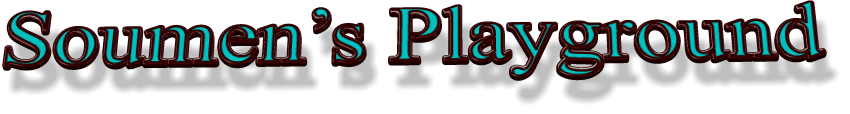
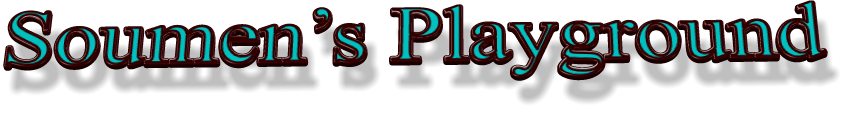
wryuwrujjsfjsf

diff --git a/e22/viii_eng/1stSum-viii-eng-22/1.htm b/e22/viii_eng/1stSum-viii-eng-22/1.htm
@@ -27,8 +27,8 @@
  <script>var xr_xr=document.getElementById("xr_xr")</script>
 <div id="xr_td" class="xr_td">
 <div class="xr_ap xr_xri_" style="width: 550px; height: 1000px;">
- <img class="xr_rn_ xr_ap" src="index_htm_files/19.jpg" alt="" title="" style="left:28px;top:755px;width:245px;height:143px;"/>
- <img class="xr_rn_ xr_ap" src="index_htm_files/17.jpg" alt="" title="" style="left:288px;top:756px;width:224px;height:149px;"/>
+ <img class="xr_rn_ xr_ap" src="index_htm_files/19.jpg" alt="" title="" style="left:25px;top:775px;width:245px;height:143px;"/>
+ <img class="xr_rn_ xr_ap" src="index_htm_files/17.jpg" alt="" title="" style="left:288px;top:769px;width:224px;height:149px;"/>
  <div class="xr_txt Normal_text xr_s0" style="position: absolute; left:-117px; top:28px; width:421px; height:10px;">
   <span class="xr_tl Normal_text xr_s0" style="left: 188.98px; top: -21.39px;">&nbsp;&nbsp;&nbsp;&nbsp;&nbsp;&nbsp;&nbsp;&nbsp;&nbsp; A Sample Question Pattern </span>
   <span class="xr_tl Normal_text xr_s0" style="left: 264.57px; top: 10.51px;">&nbsp;&nbsp;&nbsp; and Marks Division </span>
@@ -36,38 +36,40 @@
   <span class="xr_tl Normal_text xr_s0" style="left: 188.97px; top: 42.4px;">of the First Summative Evaluation 2022</span>
   <span class="xr_tl Normal_text xr_s0" style="left: 264.57px; top: 74.29px;">&nbsp;&nbsp;&nbsp;&nbsp;&nbsp;&nbsp;&nbsp; CLASS : VIII </span>
  </div>
- <div class="xr_txt Normal_text xr_s0" style="position: absolute; left:-161px; top:247px; width:680px; height:10px;">
+ <div class="xr_txt Normal_text xr_s0" style="position: absolute; left:-161px; top:247px; width:529px; height:10px;">
   <span class="xr_tl Normal_text xr_s0" style="left: 188.98px; top: -21.39px;">1. Fill in the blanks with&nbsp; appropriate articles </span>
   <span class="xr_tl Normal_text xr_s0" style="left: 188.98px; top: 10.51px;">or prepositions : </span>
   <span class="xr_tl Normal_text xr_s0" style="left: 566.92px; top: 10.51px;">4 X 1 = 4 </span>
-  <span class="xr_tl Normal_text xr_s0" style="left: 188.98px; top: 42.4px;">2. Fill in the blanks with proper forms of verbs: </span>
+  <span class="xr_tl Normal_text xr_s0" style="left: 188.98px; top: 42.4px;">2. Fill in the blanks with proper forms of </span>
+  <span class="xr_tl Normal_text xr_s0" style="left: 188.98px; top: 74.29px;">verbs: </span>
   <span class="xr_tl Normal_text xr_s0" style="left: 566.92px; top: 74.29px;">2 X 1 = 2</span>
   <span class="xr_tl Normal_text xr_s0" style="left: 188.98px; top: 106.19px;">3. Identify and write down the clauses in the </span>
   <span class="xr_tl Normal_text xr_s0" style="left: 188.98px; top: 138.08px;">following chart. </span>
   <span class="xr_tl Normal_text xr_s0" style="left: 566.92px; top: 138.08px;">3 X 1 = 3</span>
-  <span class="xr_tl Normal_text xr_s0" style="left: 188.98px; top: 169.97px;">4. Write examples of the each type of </span>
+  <span class="xr_tl Normal_text xr_s0" style="left: 188.98px; top: 169.97px;">4. Write example of the type of </span>
   <span class="xr_tl Normal_text xr_s0" style="left: 188.98px; top: 201.87px;">sentence mentioned in the table below .&nbsp;&nbsp;&nbsp;&nbsp;&nbsp;&nbsp; </span>
   <span class="xr_tl Normal_text xr_s0" style="left: 188.98px; top: 233.76px;">Interrogative, Optative, Exclamatory:</span>
-  <span class="xr_tl Normal_text xr_s0" style="left: 566.92px; top: 233.76px;">3 X 1 = 1</span>
-  <span class="xr_tl Normal_text xr_s0" style="left: 188.98px; top: 265.65px;">5.</span>
-  <span class="xr_tl Normal_text xr_s0" style="left: 226.77px; top: 265.65px;">Change the voice: </span>
-  <span class="xr_tl Normal_text xr_s0" style="left: 566.92px; top: 265.65px;">2 X 1 = 2</span>
-  <span class="xr_tl Normal_text xr_s0" style="left: 188.98px; top: 297.55px;">6.</span>
-  <span class="xr_tl Normal_text xr_s0" style="left: 226.77px; top: 297.55px;">Change the mode of narration. </span>
+  <span class="xr_tl Normal_text xr_s0" style="left: 188.98px; top: 265.65px;">(Any one ) </span>
+  <span class="xr_tl Normal_text xr_s0" style="left: 566.92px; top: 265.65px;">3 X 1 = 1</span>
+  <span class="xr_tl Normal_text xr_s0" style="left: 188.98px; top: 297.55px;">5.</span>
+  <span class="xr_tl Normal_text xr_s0" style="left: 226.77px; top: 297.55px;">Change the voice: </span>
   <span class="xr_tl Normal_text xr_s0" style="left: 566.92px; top: 297.55px;">2 X 1 = 2</span>
-  <span class="xr_tl Normal_text xr_s0" style="left: 188.98px; top: 329.44px;">7.</span>
-  <span class="xr_tl Normal_text xr_s0" style="left: 226.77px; top: 329.44px;">Form a new word adding a suffix to </span>
-  <span class="xr_tl Normal_text xr_s0" style="left: 188.98px; top: 361.33px;">the root word. </span>
-  <span class="xr_tl Normal_text xr_s0" style="left: 566.92px; top: 361.33px;">1 X 1 = 1</span>
+  <span class="xr_tl Normal_text xr_s0" style="left: 188.98px; top: 329.44px;">6.</span>
+  <span class="xr_tl Normal_text xr_s0" style="left: 226.77px; top: 329.44px;">Change the mode of narration. </span>
+  <span class="xr_tl Normal_text xr_s0" style="left: 566.92px; top: 329.44px;">2 X 1 = 2</span>
+  <span class="xr_tl Normal_text xr_s0" style="left: 188.98px; top: 361.33px;">7.</span>
+  <span class="xr_tl Normal_text xr_s0" style="left: 226.77px; top: 361.33px;">Form a new word adding a suffix to </span>
+  <span class="xr_tl Normal_text xr_s0" style="left: 188.98px; top: 393.23px;">the root word. </span>
+  <span class="xr_tl Normal_text xr_s0" style="left: 566.92px; top: 393.23px;">1 X 1 = 1</span>
  </div>
  <a href="index.htm" onclick="return(xr_nn());">
-  <img class="xr_rn_ xr_ap" src="index_htm_files/35.png" alt="PREVIOUS PAGE" title="" onmousemove="xr_mo(this,0,event)" style="left:171px;top:684px;width:198px;height:59px;"/>
-  <img class="xr_rn_ xr_ap xr_ro xr_ro0 xr_tt3" src="index_htm_files/37.png" alt="PREVIOUS PAGE" title="" onmousemove="xr_mo(this,0)" style="left:171px;top:684px;width:198px;height:59px;"/>
+  <img class="xr_rn_ xr_ap" src="index_htm_files/40.png" alt="PREVIOUS PAGE" title="" onmousemove="xr_mo(this,0,event)" style="left:171px;top:696px;width:198px;height:60px;"/>
+  <img class="xr_rn_ xr_ap xr_ro xr_ro0 xr_tt3" src="index_htm_files/41.png" alt="PREVIOUS PAGE" title="" onmousemove="xr_mo(this,0)" style="left:171px;top:696px;width:198px;height:60px;"/>
  </a>
  <div class="xr_txt Normal_text xr_s0" style="position: absolute; left:-68px; top:195px; width:257px; height:10px;">
   <span class="xr_tl Normal_text xr_s0" style="left: 188.98px; top: -21.39px;">&nbsp;&nbsp; GRAMMAR SECTION:</span>
  </div>
- <img class="xr_rn_ xr_ap" src="index_htm_files/36.png" alt="Soumen’s Playground" title="" style="left:55px;top:919px;width:425px;height:57px;"/>
+ <img class="xr_rn_ xr_ap" src="index_htm_files/36.png" alt="Soumen’s Playground" title="" style="left:61px;top:924px;width:425px;height:57px;"/>
  <div class="xr_txt Normal_text xr_s1" style="position: absolute; left:18px; top:155px; width:166px; height:10px;">
   <span class="xr_tl Normal_text xr_s1" style="left: 149.43px; top: -16.91px;">&nbsp;&nbsp;&nbsp; FULL MARKS: 15</span>
  </div>
